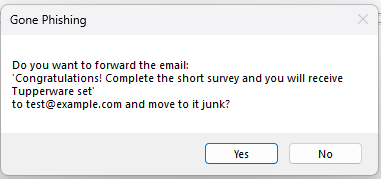
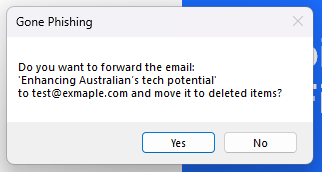
words

Changed region(s): [[0.0, 0.0, 1.0, 1.0]]

diff --git a/readme.md b/readme.md
@@ -5,14 +5,14 @@
 This add-in for Outlook will add a new button to the main ribbon, and should be used as a simple solution for reporting SPAM and Phishing emails to an assigned address:<br>
 ![GP](images/ribbon.png)
 
-When clicked, it will ask if you want to forward the selected email, and move the item to junk:<br>
+When clicked, it will ask if you want to forward the selected email, and move the item to deleted item:<br>
 ![GP](images/forward1.png)<br>
 Hitting 'No' will stop all functions, hitting yes will make it happen.
 
 If you try and forward multiple emails by selecting more then one, it'll throw an error:<br>
 ![GP](images/forward2.png)
 
-After selecting 'Yes', the add-in will add a prefix to the email, and send it to the address. In sent items it will look like:<br>
+After selecting 'Yes', the add-in will create a new mail item, attach the sus email to it, and send it onto the address. In sent items it will look like:<br>
 ![GP](images/sent1.png)
 
 Both the address and prefix are saved as strings in the registry, so can be editing down the track with Group Policy as needed:<br>
